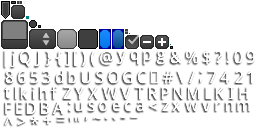
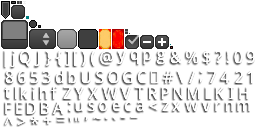
uiskin.png verändert uiskin.json fonts umbenannt in den einzelnen Screens neue Namen eingefügt und komplettes Design überarbeitet

Changed region(s): [[0.375, 0.2188, 0.5, 0.4062]]

diff --git a/core/src/com/jalfsoftware/jalf/screens/GameScreen.java b/core/src/com/jalfsoftware/jalf/screens/GameScreen.java
@@ -30,8 +30,8 @@ public class GameScreen extends AbstractScreen implements Player.EndOfMapReached
     public GameScreen(Jalf jalf, Map map) {
         super(jalf);
         this.map = map;
-        this.timeLabel = new Label("", skin, "default-font", Color.WHITE);
-        this.livesLabel = new Label("", skin, "default-font", Color.WHITE);
+        this.timeLabel = new Label("", skin, "ingame-font", Color.RED);
+        this.livesLabel = new Label("", skin, "ingame-font", Color.RED);
 
         // Maprenderer initialisieren
         Gdx.app.log(LOG, "Loading " + (map.isDefault() ? "defaultmap " : "usermap ") + map.getName() + " from " + map.getPath());
@@ -76,10 +76,10 @@ public class GameScreen extends AbstractScreen implements Player.EndOfMapReached
     @Override
     public void preUIrender(float delta) {
         // Game-Labels updaten
-        timeLabel.setText("Time: " + String.valueOf((System.currentTimeMillis() - startTime) / 1000));
+        timeLabel.setText("TIME: " + String.valueOf((System.currentTimeMillis() - startTime) / 1000));
         timeLabel.setPosition(0, uiStage.getHeight() - timeLabel.getPrefHeight() / 2);
 
-        livesLabel.setText("Lives: " + String.valueOf(player.getLives()));
+        livesLabel.setText("LIVES: " + String.valueOf(player.getLives()));
         livesLabel.setPosition((uiStage.getWidth() / 2) - (livesLabel.getPrefWidth() / 2),
                                uiStage.getHeight() - timeLabel.getPrefHeight() / 2);
 

diff --git a/core/src/com/jalfsoftware/jalf/screens/OptionsScreen.java b/core/src/com/jalfsoftware/jalf/screens/OptionsScreen.java
@@ -35,13 +35,15 @@ public class OptionsScreen extends AbstractScreen {
         table.add().padBottom(50).row();
 
         // Titel
-        Label titleLabel = new Label("tbn", skin, "magneto-92", Color.WHITE);
+        Label titleLabel = new Label("THE ULTIMATE JALF", skin, "Title", Color.GREEN);
         table.add(titleLabel).spaceBottom(5).align(1);
         table.row();
 
         // Untertitel
-        table.add("OPTIONS").align(1).spaceBottom(20);
+        Label subtitleLabel = new Label("Option Menue",skin, "Subtitle", Color.BLUE);
+        table.add(subtitleLabel).spaceBottom(10);
         table.row();
+
 
         // FPS-Counter-Checkbox
         final CheckBox fpsCounterCheckbox = new CheckBox("FPS-Counter", skin);
@@ -70,7 +72,7 @@ public class OptionsScreen extends AbstractScreen {
         table.row();
 
         // Footer
-        table.add(new Label("www.jalfsoftware.com", skin)).row();
+        table.add(new Label("www.jalfsoftware.com", skin, "Subtitle", Color.DARK_GRAY)).row();
         table.add().padBottom(25).row();
 
         Gdx.input.setInputProcessor(uiStage);

diff --git a/core/src/com/jalfsoftware/jalf/screens/MenuScreen.java b/core/src/com/jalfsoftware/jalf/screens/MenuScreen.java
@@ -32,12 +32,13 @@ public class MenuScreen extends AbstractScreen {
         table.add().padBottom(50).row();
 
         // Titel
-        Label titleLabel = new Label("tbn", skin, "magneto-92", Color.WHITE);
-        table.add(titleLabel).spaceBottom(5).align(1);
+        Label titleLabel = new Label("THE ULTIMATE JALF", skin, "Title", Color.GREEN);
+        table.add(titleLabel).spaceBottom(10).align(1);
         table.row();
 
         // Untertitel
-        table.add("[insertGameNameHere]").align(1).spaceBottom(20);
+        Label subtitleLabel = new Label("Main Menue",skin, "Subtitle", Color.BLUE);
+        table.add(subtitleLabel).spaceBottom(10);
         table.row();
 
         // Button "Start"
@@ -80,7 +81,7 @@ public class MenuScreen extends AbstractScreen {
         table.row();
 
         // Footer
-        table.add(new Label("www.jalfsoftware.com", skin)).row();
+        table.add(new Label("www.jalfsoftware.com", skin, "Subtitle", Color.DARK_GRAY)).row();
         table.add().padBottom(25).row();
 
         Gdx.input.setInputProcessor(uiStage);

diff --git a/core/src/com/jalfsoftware/jalf/screens/LevelSelectionScreen.java b/core/src/com/jalfsoftware/jalf/screens/LevelSelectionScreen.java
@@ -74,12 +74,13 @@ public class LevelSelectionScreen extends AbstractScreen {
         table.add().padBottom(50).row();
 
         // Titel
-        Label titleLabel = new Label("to be named", skin, "magneto-92", Color.WHITE);
+        Label titleLabel = new Label("THE ULTIMATE JALF", skin, "Title", Color.GREEN);
         table.add(titleLabel).spaceBottom(5).align(1);
         table.row();
 
         // Untertitel
-        table.add("Level-Selection").align(1).spaceBottom(20);
+        Label subtitleLabel = new Label("Level Selection",skin, "Subtitle", Color.BLUE);
+        table.add(subtitleLabel).spaceBottom(10);
         table.row();
 
         // Level-Liste
@@ -111,7 +112,7 @@ public class LevelSelectionScreen extends AbstractScreen {
         table.row();
 
         // Footer
-        table.add(new Label("www.jalfsoftware.com", skin)).row();
+        table.add(new Label("www.jalfsoftware.com", skin, "Subtitle", Color.DARK_GRAY)).row();
         table.add().padBottom(25).row();
 
         Gdx.input.setInputProcessor(uiStage);

diff --git a/core/src/com/jalfsoftware/jalf/screens/GameOverScreen.java b/core/src/com/jalfsoftware/jalf/screens/GameOverScreen.java
@@ -32,12 +32,13 @@ public class GameOverScreen extends AbstractScreen {
         table.add().padBottom(50).row();
 
         // Titel
-        Label titleLabel = new Label("Game Over", skin, "magneto-92", Color.WHITE);
+        Label titleLabel = new Label("THE ULTIMATE JALF", skin, "Title", Color.GREEN);
         table.add(titleLabel).spaceBottom(5).align(1);
         table.row();
 
         // Untertitel
-        table.add("You lost!").align(1).spaceBottom(20);
+        Label subtitleLabel = new Label("Game Over",skin, "Subtitle", Color.BLUE);
+        table.add(subtitleLabel).spaceBottom(10);
         table.row();
 
         // Button "Start"
@@ -80,7 +81,7 @@ public class GameOverScreen extends AbstractScreen {
         table.row();
 
         // Footer
-        table.add(new Label("www.jalfsoftware.com", skin)).row();
+        table.add(new Label("www.jalfsoftware.com", skin, "Subtitle", Color.DARK_GRAY)).row();
         table.add().padBottom(25).row();
 
         Gdx.input.setInputProcessor(uiStage);

diff --git a/core/src/com/jalfsoftware/jalf/screens/AbstractScreen.java b/core/src/com/jalfsoftware/jalf/screens/AbstractScreen.java
@@ -54,7 +54,7 @@ public abstract class AbstractScreen implements Screen {
         });
         skin = new Skin(Gdx.files.internal("skin/uiskin.json"));
         batch = new SpriteBatch();
-        this.fpsLabel = new Label("", skin, "arial", Color.WHITE);
+        this.fpsLabel = new Label("", skin, "ingame-font", Color.RED);
 
         // Inputs festlegen
         inputMultiplexer = new InputMultiplexer(uiStage);
